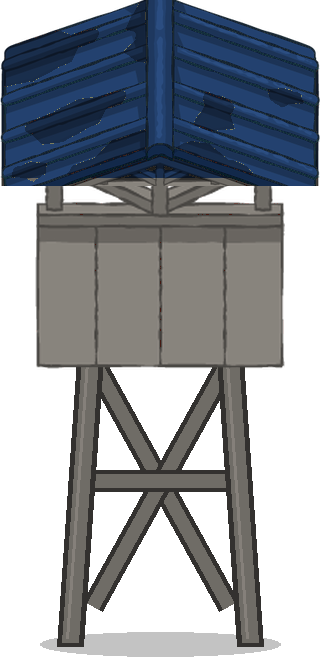
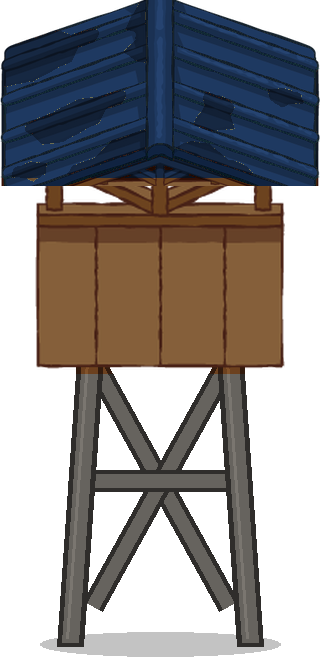
Laden und Wachturm dunkler, Wachturm immer aus Holz (Steinmoos gibt nur Steinbeine)

Changed region(s): [[0.0938, 0.2424, 0.9062, 0.5758]]

diff --git a/Assets/Scripts/World/WorldBuilder.Buildings.cs b/Assets/Scripts/World/WorldBuilder.Buildings.cs
@@ -11,7 +11,7 @@ namespace SeedClicker
     ///  - Alle Gebaeude: Klick = leveln. Die Funktion (Laden-Fenster, Bauwerk-Fenster) oeffnet ein Knopf oben am Gebaeude,
     ///    der beim Darueberfahren erscheint (am Handy nach dem Antippen) – siehe BuildingUnder und WorldUI.BuildingButton.
     ///  - Knolli-Huetten (zwei Haeuschen im Wechsel) und die Saatgutmuehle bekommen Haus-Bilder statt der Platzhalter.
-    ///  - Wachturm: Holzturm aus City-Teilen (Dach, Bretterkanzel, Beine), Steinturm = derselbe Turm in Stein mit Schieferdach.
+    ///  - Wachturm: Holzturm aus City-Teilen (Dach, Bretterkanzel, Beine), nach Steinmoos nur Steinbeine (Kanzel bleibt Holz).
     ///  - Gratis-Modus (FreeBuild, zum Ausprobieren): alle Bauwerke sichtbar und kostenlos.
     /// </summary>
     public partial class WorldBuilder
@@ -177,7 +177,7 @@ namespace SeedClicker
             {
                 case "knollihuette": return Get(((s.x + s.y) & 1) == 0 ? "huette_a" : "huette_b");
                 case "saatgutmuehle": return Get("muehle");
-                case "wachturm": return Get(s.stone ? "turm_stein" : "turm_holz");   // Holzturm aus City-Teilen zusammengesetzt, Steinturm = derselbe in Stein mit Schieferdach
+                case "wachturm": return Get(s.stone ? "turm_stein" : "turm_holz");   // Holzturm aus City-Teilen zusammengesetzt, nach Steinmoos mit Steinbeinen
             }
             return null;
         }

diff --git a/DECISIONS.md b/DECISIONS.md
@@ -455,4 +455,5 @@
 - Knopf sitzt jetzt im oberen Teil des Gebäudes (nicht in der Mitte, wo man klickt), darüber Name/Stufe und ein Fortschrittsbalken bis zur nächsten Stufe.
 - Testknopf „Alle Gebäude gratis“ (oben rechts unter „Endlevel-Hof“): schaltet einen Gratis-Modus an/aus (nicht gespeichert) und öffnet den Reiter „Bauwerke“ – dort sind alle Bauwerke sichtbar und kosten nichts.
 - Nachtrag 2: Laden insgesamt dunkler und satter (Faktor 0,74 auf die Helligkeit), Wachtürme mit dem Hausblau als Dach (auch die Rostflecken dunkelblau) und etwas dunkler (×0,78); der Steinturm mittelgrau statt hellgrau. Die Skripte zum Umfärben liegen nicht im Repo, die Ergebnisse als PNG in Resources/Buildings.
+- Nachtrag 3: Laden und Wachturm noch dunkler (Laden ×0,64, Turm ×0,68). Der Wachturm ist immer aus Holz; nach Steinmoos bekommt er nur Steinbeine (Kanzel und Dach bleiben Holz bzw. Hausblau), damit das Upgrade sichtbar bleibt.
 
